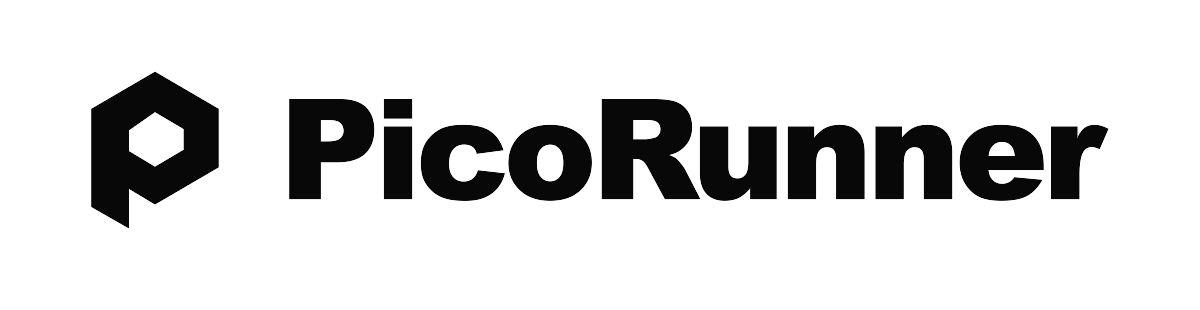
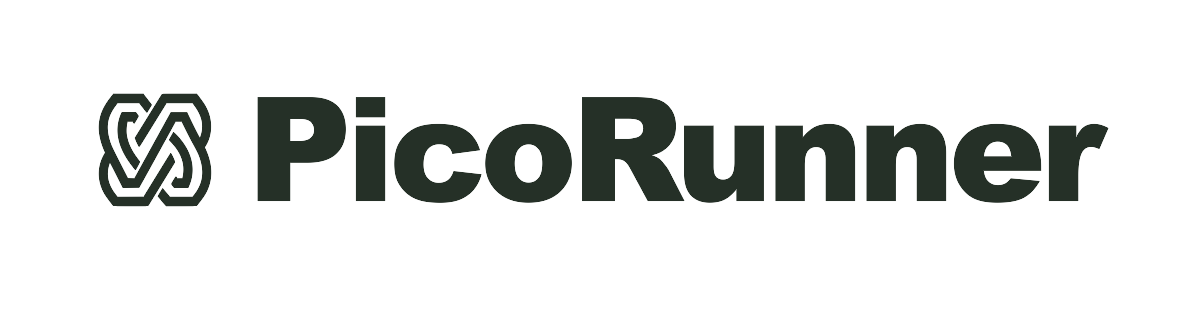
Update PicoRunner to intertwined brand mark

Changed region(s): [[0.2158, 0.2903, 0.925, 0.6677], [0.0617, 0.2323, 0.185, 0.7258]]

diff --git a/BRAND.md b/BRAND.md
@@ -3,10 +3,10 @@
 Use **PicoRunner** in visible copy and **picorunner.com** for public links.
 The desktop bundle identifier is `com.bigmints.picorunner`.
 
-The approved identity is **Folded P**: an original geometric P with heavy
-mixed-case lettering. Primary artwork is black (`#080808`) on white; use the
-white reverse version on dark backgrounds. Keep the wordmark transparent.
-Do not add a play triangle, colored gradient, outline, or shadow to the mark.
+The approved identity is the **intertwined mark** from the workspace root
+`logo.svg`, paired with the existing heavy mixed-case lettering. Primary
+artwork is charcoal (`#253027`) on white; use the white reverse version on
+dark backgrounds. Keep the wordmark transparent and do not add effects.
 
 The lettering is stored as vector outlines in `scripts/brand/wordmark.json`.
 It was outlined from locally licensed Arial Black; no font software is
